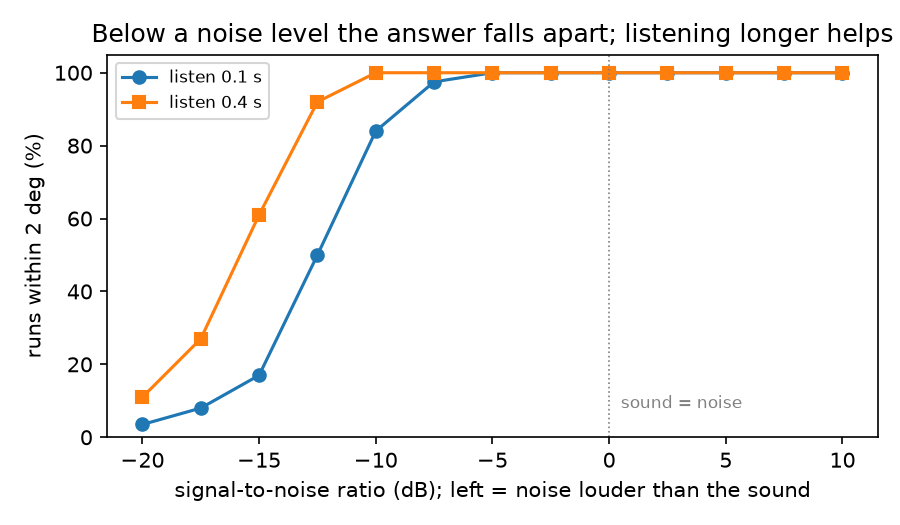
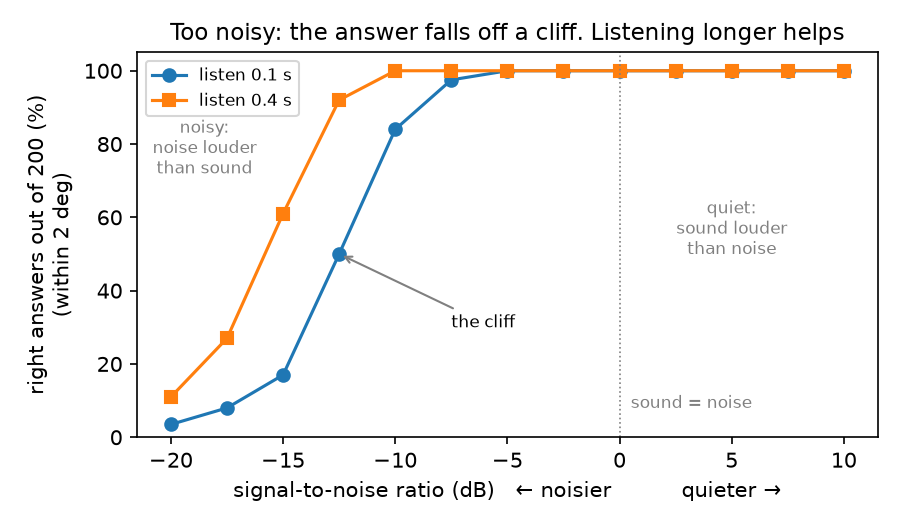
Explain the noise experiment as a game a 12-year-old can follow
Aaron could not follow the noise section. The text now frames it as
pointing at a friend calling in a noisy classroom, says how to read
each axis, adds a "noise is N times the sound" column (1, 3, 10, 18,
32x), and reads the table in plain words. The figure labels the quiet
and noisy sides, marks the cliff, and its title no longer gets cut off.

diff --git a/scripts/step1_two_mics.py b/scripts/step1_two_mics.py
@@ -185,9 +185,13 @@ def fig_noise(path, snrs, hit_short, hit_long):
     ax.plot(snrs, hit_long, "s-", label="listen 0.4 s")
     ax.axvline(0, color="grey", ls=":", lw=0.8)
     ax.text(0.5, 8, "sound = noise", color="grey", fontsize=8)
-    ax.set_xlabel("signal-to-noise ratio (dB); left = noise louder than the sound")
-    ax.set_ylabel("runs within 2 deg (%)")
-    ax.set_title("Below a noise level the answer falls apart; listening longer helps")
+    ax.text(5, 50, "quiet:\nsound louder\nthan noise", ha="center", fontsize=8, color="grey")
+    ax.text(-18.5, 72, "noisy:\nnoise louder\nthan sound", ha="center", fontsize=8, color="grey")
+    ax.annotate("the cliff", (-12.5, 50), (-7.5, 30), fontsize=8,
+                arrowprops=dict(arrowstyle="->", color="grey"))
+    ax.set_xlabel("signal-to-noise ratio (dB)   ← noisier          quieter →")
+    ax.set_ylabel("right answers out of 200 (%)\n(within 2 deg)")
+    ax.set_title("Too noisy: the answer falls off a cliff. Listening longer helps", fontsize=11)
     ax.set_ylim(0, 105)
     ax.legend(fontsize=8)
     fig.tight_layout()

diff --git a/docs/blog/01-two-mics.md b/docs/blog/01-two-mics.md
@@ -151,18 +151,33 @@ GCC-PHAT 是改良版，全名 Generalized Cross-Correlation with Phase Transfor
 - -15 dB：雜訊的功率是鳥叫的 32 倍。
 - 斷崖往左移 3 dB：能忍受的雜訊功率多了 2 倍。
 
-我讓聲源固定在 30 度，把訊雜比從 +10 dB 一路降到 -20 dB，每一格跑 200 次，
-看有幾次的誤差在 2 度以內：
+**先想像一個遊戲。** 你閉著眼睛，朋友在教室某個角落叫你的名字，你要指出他在哪裡。
+教室很安靜時，你每次都指得對。同學開始聊天，越來越吵，你還能指對嗎？
+朋友只叫一聲，和連續叫好幾聲，哪一種比較容易？
+
+我讓電腦玩這個遊戲：
+
+- 「朋友」是 30 度方向的聲音，「同學聊天」是雜訊。
+- 每一種吵鬧程度，都玩 200 次。
+- 每次答案和 30 度差不到 2 度，就算「指對」。
+- 朋友叫一次的時間有兩種：0.1 秒和 0.4 秒。
+
+**怎麼看這張圖：** 橫軸往右是安靜（聲音比雜訊大），往左是越來越吵（雜訊比聲音大）。
+縱軸是 200 次裡指對幾 %。
 
 ![訊雜比低於某個程度，答案像斷崖一樣失敗；聽久一點，斷崖往左移](img/step1_noise.png)
 
-| 訊雜比 | 聽 0.1 秒 | 聽 0.4 秒 |
-|---|---|---|
-| 0 dB | 100% | 100% |
-| -5 dB | 100% | 100% |
-| -10 dB | 84% | 100% |
-| -12.5 dB | 50% | 92% |
-| -15 dB | 17% | 61% |
+| 訊雜比 | 雜訊是聲音的幾倍（功率） | 聽 0.1 秒，指對 | 聽 0.4 秒，指對 |
+|---|---|---|---|
+| 0 dB | 1 倍（一樣大） | 100% | 100% |
+| -5 dB | 3 倍 | 100% | 100% |
+| -10 dB | 10 倍 | 84% | 100% |
+| -12.5 dB | 18 倍 | 50% | 92% |
+| -15 dB | 32 倍 | 17% | 61% |
+
+讀法：雜訊比聲音大 10 倍時，電腦還幾乎都指對。
+再吵一點點，到 32 倍，聽 0.1 秒的只剩 17% 指對，跟亂猜差不多。
+但如果聽 0.4 秒，還有 61% 指對。
 
 兩件事很重要：
 
